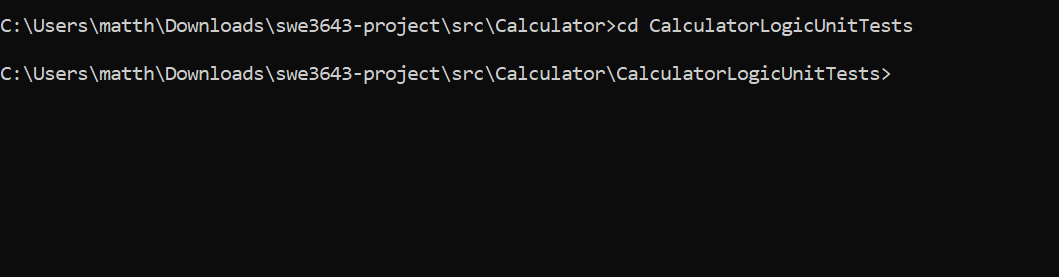
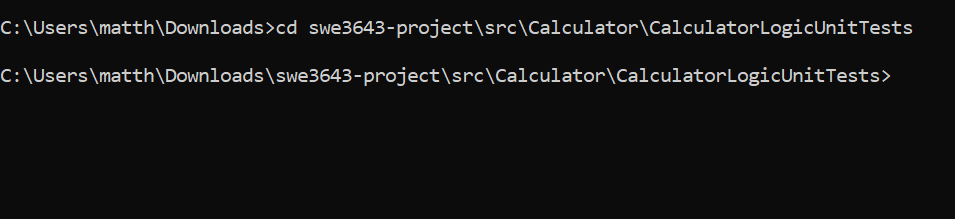
Updated README.md

Changed region(s): [[0.0, 0.2192, 0.9414, 0.3836], [0.0, 0.0548, 0.9717, 0.1644]]

diff --git a/README.md b/README.md
@@ -145,19 +145,10 @@ You want to choose where you want to place your cloned repository. To direct to 
 <br>**4.	Clone the repository.**<br><br>
 Once you have directed to your chosen directory, use the `git clone` command followed by the URL of the repository. For example, my command for cloning this repository to my machine was `git clone https://github.com/matthewcrowley/swe3643-project.git`.
 ![CommandLineRepoCloned](README.assets/CommandLineRepoCloned.PNG) <br>
-<br>**5.	Navigate to the newly cloned repository.**<br><br>
-The name of this repository is "swe3643-project", so the command to navigate to the repository is `cd swe3643-project`.<br>
-![NavigateToProject](README.assets/NavigateToProject.PNG) <br>
-<br>**6.	Navigate to the source code directory.**<br><br>
-The name of the directory is "src", so the command is `cd src`.
-![NavigateToSource](README.assets/NavigateToSource.PNG) <br>
-<br>**7.	Navigate to the Calculator directory.**<br><br>
-The name of this directory is simply "Calculator", so the command is `cd Calculator`.
-![NavigateToCalculator](README.assets/NavigateToCalculator.PNG) <br>
-<br>**8.	Navigate to the Unit Tests directory.**<br><br>
-The name of the unit test directory is "CalculatorLogicUnitTests", so the command is `cd CalculatorLogicUnitTests`.
+<br>**5.	Navigate to the unit tests in the newly cloned repository.**<br><br>
+You want to navigate to the repository directory, into the source directory, then the Calculator directory, and then finally the CalculatorLogicUnitTests directory. To do this all at once, we are going to use one command, which is `cd swe3643-project/src/Calculator/CalculatorLogicUnitTests`.<br>
 ![NavigateToUnitTests](README.assets/NavigateToUnitTests.PNG) <br>
-<br>**9.	Execute the Unit Tests.**<br><br>
+<br>**6.	Execute the Unit Tests.**<br><br>
 Once in the unit tests directory, run the unit tests. The command for this is `dotnet test`.
 ![CommandLineUnitTestsSuccess](README.assets/CommandLineUnitTestsSuccess.PNG)
 <br>You have now successfully executed the unit tests from the command line! <br><br>
